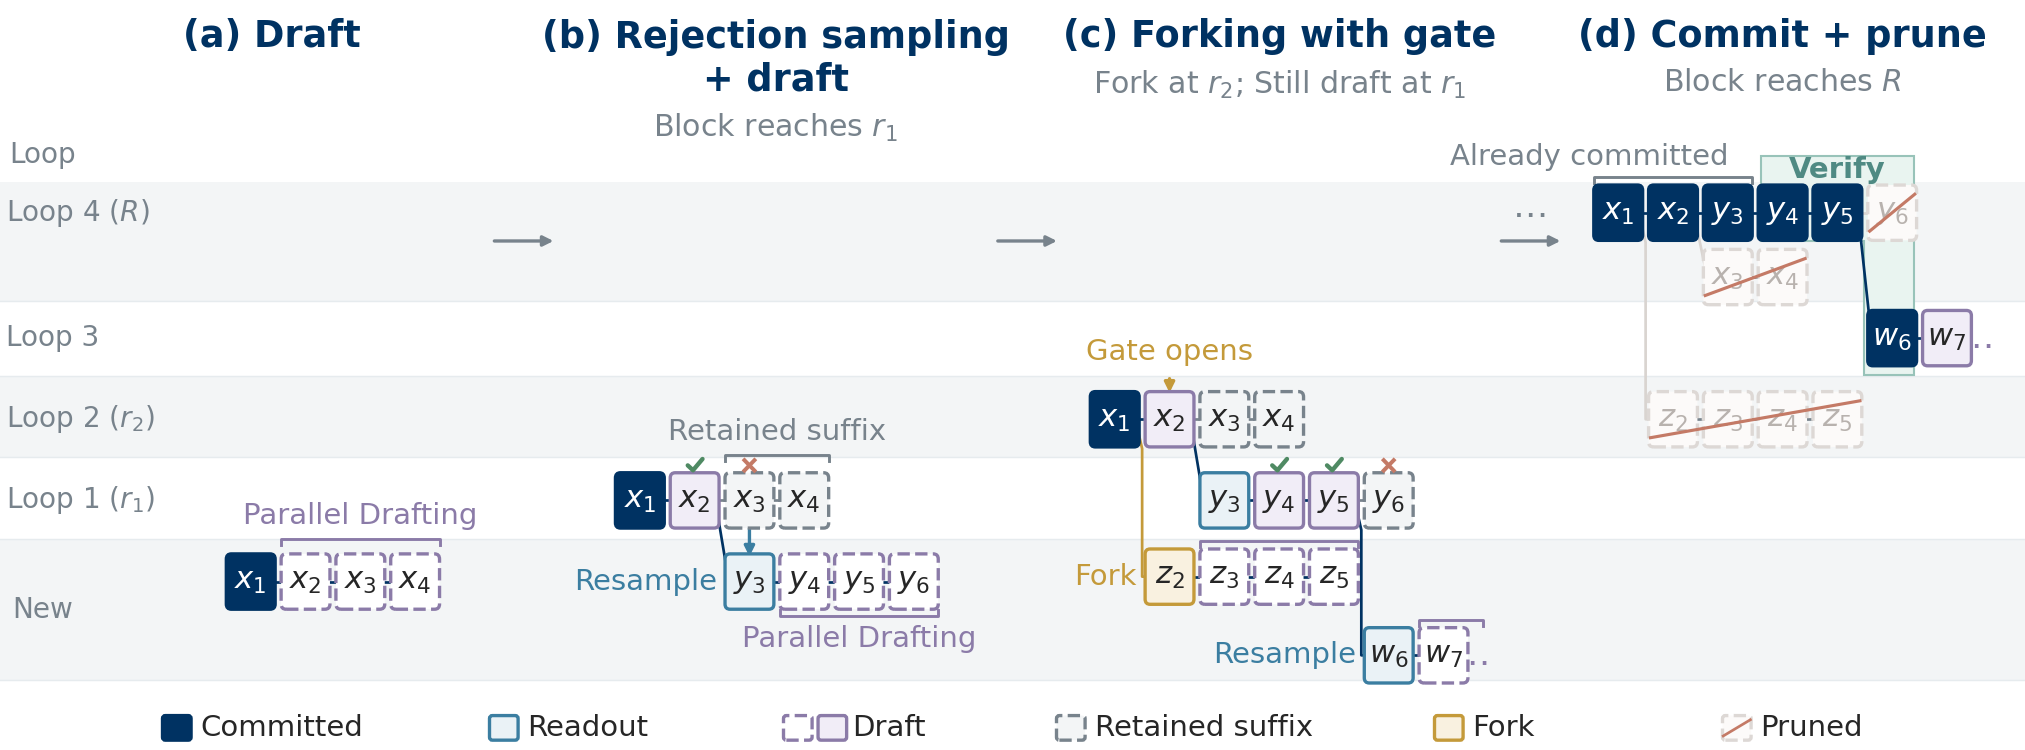
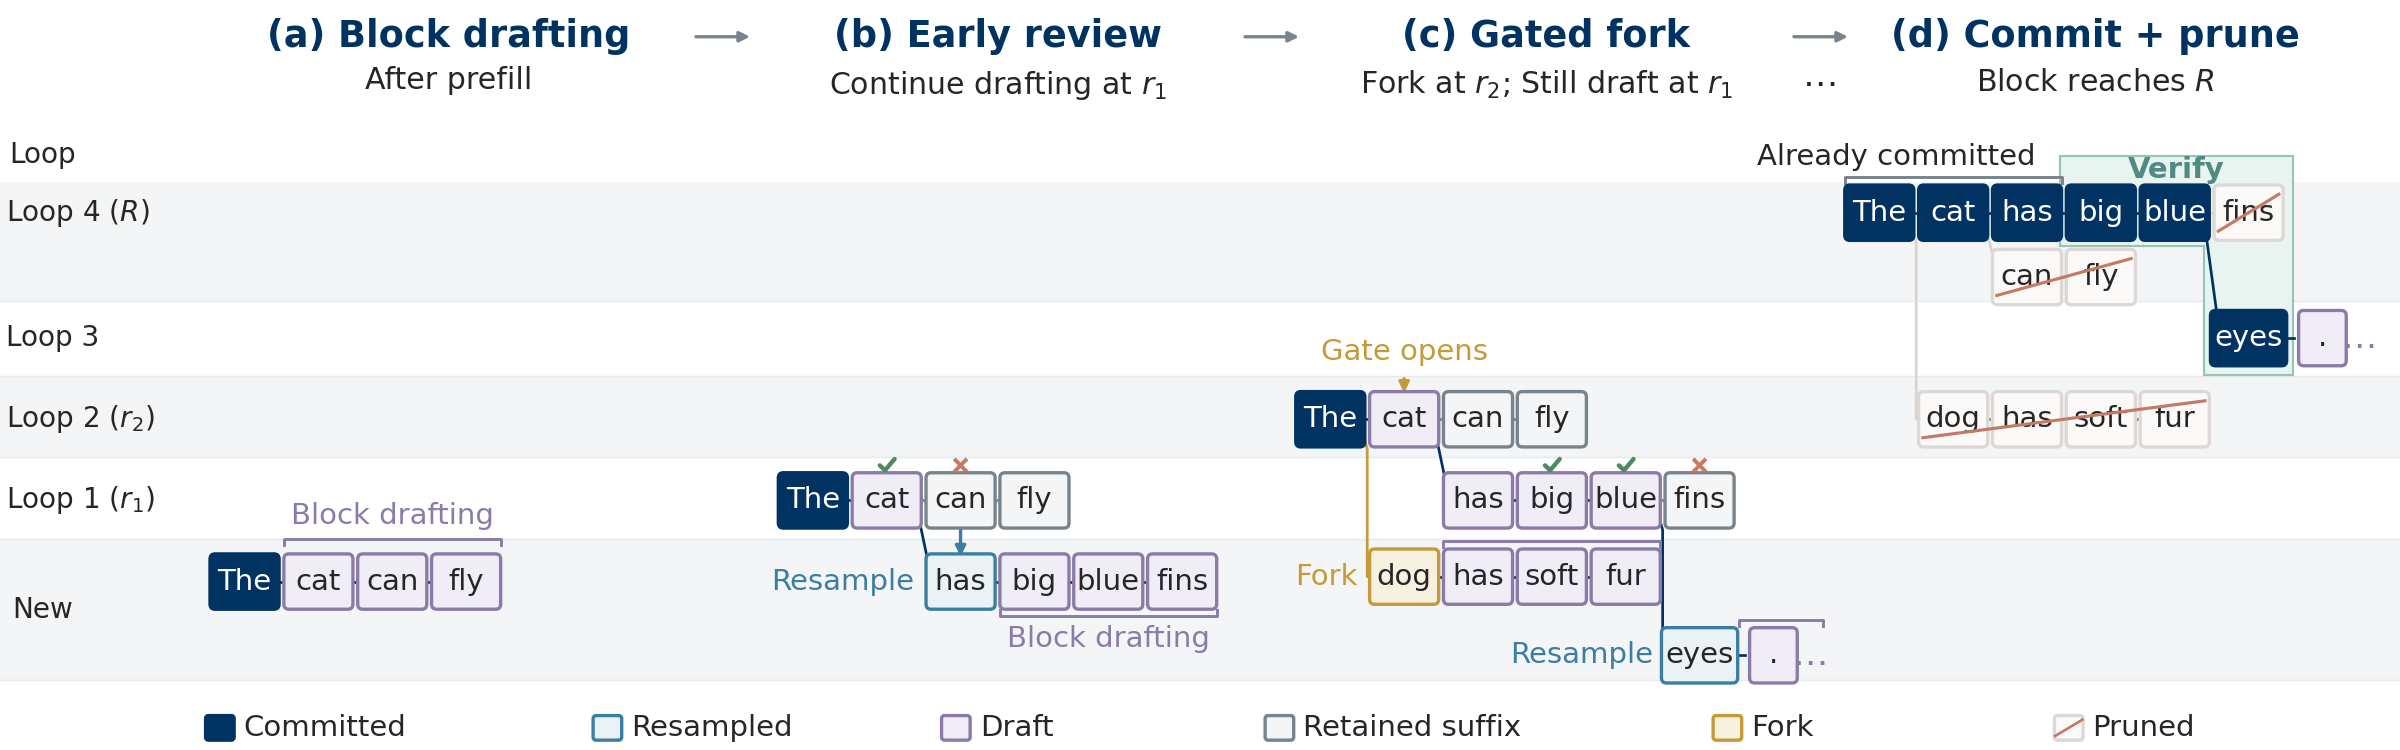
Update the figures and docs

diff --git a/scripts/benchmark.py b/scripts/benchmark.py
@@ -7,9 +7,10 @@ skipped, and --out must hold only results of the same run (model, revision,
 drafter, method, sampling, 2DSD settings, KV policy and prompts file). Then
 prints decode throughput per benchmark, as in the paper (App. D.2): tokens
 after the first one (which prefill produces) over the decode time, excluding
-prefill and including drafting, scheduling, verification and CUDA graph capture.
-"repetition-filtered" excludes capped responses whose final 2048 tokens have
-fewer than half distinct 16-grams.
+prefill and including drafting and verification. AIME24 and AIME25 are
+reported together as aime24/25, as in the paper's tables. "repetition-filtered"
+excludes capped responses whose final 2048 tokens have fewer than half distinct
+16-grams.
 
 Examples (the paper's 2DSD run and its native AR reference):
   python scripts/benchmark.py --model ouro-1.4b-thinking \\
@@ -265,13 +266,16 @@ def capped(row: dict) -> bool:
     return not row["stopped_by_eos"] and len(row["output_ids"]) >= row["max_new"]
 
 
+TABLE_BENCHMARK = {"aime24": "aime24/25", "aime25": "aime24/25"}  # one column in the paper's tables
+
+
 def summarize(paths: list[Path]) -> None:
     print(f"{'run':40s} {'benchmark':12s} {'n':>5s} {'tok/s':>9s} {'tok/s (rep.-filtered)':>22s}")
     for path in paths:
         rows = read_jsonl(path)
         groups = collections.defaultdict(list)
         for row in rows:
-            groups[row["benchmark"]].append(row)
+            groups[TABLE_BENCHMARK.get(row["benchmark"], row["benchmark"])].append(row)
             groups["all"].append(row)
         for name, items in sorted(groups.items(), key=lambda kv: (kv[0] == "all", kv[0])):
             def rate(selected):

diff --git a/tests/test_benchmark_script.py b/tests/test_benchmark_script.py
@@ -53,6 +53,23 @@ class Helpers(unittest.TestCase):
         line = [l for l in out.getvalue().splitlines() if " all " in l][0]
         self.assertIn("10.0", line)  # (10 + 30) tokens / (1 + 3) s
 
+    def test_summary_reports_aime24_and_aime25_together(self):
+        rows = [{"id": "a", "benchmark": "aime24", "output_ids": [0] * 11, "decode_seconds": 1.0, "max_new": 99,
+                 "stopped_by_eos": True},
+                {"id": "b", "benchmark": "aime25", "output_ids": [0] * 31, "decode_seconds": 1.0, "max_new": 99,
+                 "stopped_by_eos": True}]
+        with tempfile.TemporaryDirectory() as directory:
+            path = Path(directory) / "run.jsonl"
+            path.write_text("".join(json.dumps(r) + "\n" for r in rows))
+            out = io.StringIO()
+            with redirect_stdout(out):
+                benchmark.summarize([path])
+        lines = out.getvalue().splitlines()
+        self.assertFalse(any(" aime24 " in l or " aime25 " in l for l in lines))
+        line = [l for l in lines if " aime24/25 " in l][0]
+        self.assertIn("    2 ", line)
+        self.assertIn("20.0", line)  # (10 + 30) tokens / (1 + 1) s
+
     def test_prepare_append_drops_a_torn_tail_and_ends_the_last_record(self):
         with tempfile.TemporaryDirectory() as directory:
             path = Path(directory) / "run.jsonl"

diff --git a/vllm-fork/vllm/v1/spec_decode/twodsd.py b/vllm-fork/vllm/v1/spec_decode/twodsd.py
@@ -15,7 +15,7 @@ Example::
     [result] = engine.generate([prompt_ids], max_total_tokens=8192)
     print(result["output_ids"], result["decode_seconds"])
 
-Method presets (paper Sec. 5.1): ``2dsd`` is Stage 2b with (r1, r2) = (1, 2)
+Method presets (paper Sec. 5.1; Nanbeige: App. E.1): ``2dsd`` is Stage 2b with (r1, r2) = (1, 2)
 and block size 16 on R=4 targets (Ouro, Dory), and Stage 1 with r1 = 1 on R=2
 targets (Nanbeige).
 
@@ -27,7 +27,7 @@ and the 2DSD runner's compiled nGPT blocks); Ouro and
 Nanbeige run CUDA graphs without torch.compile (the settings of the paper's
 measurements).
 ``stage``, ``block_size``, ``d1`` and ``d2`` select the ablation variants
-(Stage 1: early review only; Stage 2a: plus promotion; Stage 2b: plus forking).
+(Stage 1: early only; Stage 2a: plus deeper promotion; Stage 2b: plus deeper forking).
 With ``block_size=1`` no drafter runs (depth-axis speculation only).
 """
 

diff --git a/training/drafter/traces.py b/training/drafter/traces.py
@@ -7,7 +7,7 @@ online at the loop onset (loop_onset below) and saved up to that onset with fini
 so no budget is spent on the repetition.
 
 --variant w64 is the shared-KV checkpoint served with its trained read rule (native single-pass
-prompt, last-loop KV outside the W-token query band); the vLLM fork applies it because the
+prompt, last-loop KV outside the W-token local window); the vLLM fork applies it because the
 checkpoint's config.json declares loopedtf_kv_policy / loopedtf_kv_window (training.kd.fix_config
 adds them to older exports; --kv-policy forces them through hf_overrides for a checkpoint that
 lacks them). --variant original is the per-loop-KV original model. Both drafters of a model in the

diff --git a/training/drafter/blocks.py b/training/drafter/blocks.py
@@ -1,7 +1,7 @@
 """Depth-conditioned DFlash blocks: sampling, labels and chain mask, loop-context queries and mask.
 
 Notation for one block (code name -> paper name):
-  a      ("anchor" in code; the paper's parent) the last position whose target feature is injected
+  a      ("anchor" in code) the last position whose target feature is injected, just before the paper's anchor
   d      its depth in 1..R; d = R means fully verified, the original DFlash setting
   L_if   in-flight positions a-L_if .. a-1 before it: drafted but not yet verified
   v      last verified position (a for d = R, else a - L_if - 1); positions <= v use loop-R features

diff --git a/README.md b/README.md
@@ -27,7 +27,7 @@ Looped language models (LMs) increase effective depth without increasing paramet
 
 <img src="img/main_algorithm.png" alt="The four stages of 2DSD" width="100%">
 
-*Four stages of 2DSD (R = 4, r<sub>1</sub> = 1, r<sub>2</sub> = 2, k = 4): (a) after prefill, the drafter proposes a block of tokens in parallel; (b) at loop r<sub>1</sub>, the block is reviewed by rejection sampling: the token sampled at the first rejection starts a new block, and the rejected suffix is kept as a fallback; (c) at loop r<sub>2</sub>, a gate can fork a new continuation while another block is redrafted at r<sub>1</sub>; (d) the last loop verifies the candidates, commits one continuation and prunes the rest.*
+*Four stages of 2DSD (illustrative R = 4, r<sub>1</sub> = 1, r<sub>2</sub> = 2, k = 4): (a) block drafting after prefill; (b) at loop r<sub>1</sub>, drafts are reviewed in order, resampling at the first rejection to continue drafting; (c) disagreement between the loop-r<sub>2</sub> argmax and the early-loop candidate opens the gate to fork an alternative continuation, while r<sub>1</sub> review and drafting continue; (d) candidates are verified using the preceding token's last-loop distribution, committing accepted tokens and pruning alternative branches.*
 
 ## ⚙ Installation
 
@@ -92,15 +92,14 @@ Nanbeige (R = 2).
 #    OlympiadBench at 32K. GPQA is gated: accept its terms on Hugging Face and log in before building Hard.
 python scripts/build_prompts.py --model ouro-2.6b-thinking --suite core --out prompts/ouro-2.6b
 
-# 2. 2DSD and AR, with last-loop KV sharing and with per-loop KV (--target original), one GPU each (resumable).
+# 2. 2DSD and the native AR reference (--target original), one GPU each (resumable).
 python scripts/benchmark.py --model ouro-2.6b-thinking \
     --prompts prompts/ouro-2.6b/core.prompts.jsonl --out runs/ouro-2.6b-core-2dsd.jsonl
-python scripts/benchmark.py --method ar --model ouro-2.6b-thinking \
-    --prompts prompts/ouro-2.6b/core.prompts.jsonl --out runs/ouro-2.6b-core-ar-sharing.jsonl
-python scripts/benchmark.py --model ouro-2.6b-thinking --target original \
-    --prompts prompts/ouro-2.6b/core.prompts.jsonl --out runs/ouro-2.6b-core-2dsd-no-sharing.jsonl
 python scripts/benchmark.py --method ar --model ouro-2.6b-thinking --target original \
     --prompts prompts/ouro-2.6b/core.prompts.jsonl --out runs/ouro-2.6b-core-ar-native.jsonl
+#    Sharing ablation (Table 4): 2DSD without KV sharing, on the base model with per-loop KV.
+python scripts/benchmark.py --model ouro-2.6b-thinking --target original \
+    --prompts prompts/ouro-2.6b/core.prompts.jsonl --out runs/ouro-2.6b-core-2dsd-no-sharing.jsonl
 
 # 3. Decode throughput per benchmark, over all responses and repetition-filtered.
 python scripts/benchmark.py --summarize runs/ouro-2.6b-core-*.jsonl
@@ -110,13 +109,11 @@ The same commands run every model. Notes:
 
 - Sampling uses `--temperature 0.6 --top-p 0.95`.
 - Decode throughput counts the tokens after the first one over the decode time, excluding prefill and including
-  drafting, scheduling, verification and CUDA graph capture.
+  drafting and verification.
 - The paper's main tables exclude capped responses whose final 2048 tokens have fewer than half distinct 16-grams
   (the repetition-filtered column).
-- Every committed token is verified against the final loop of the run's own target, so decoding is lossless with
-  respect to that run. Different kernels (vLLM's AR path versus the 2DSD runner, another GPU, or another Dory
-  compile cache) round a few BF16 values differently, which can flip a near-tied next token, so greedy 2DSD and
-  AR outputs usually diverge within the first few hundred tokens of a long response.
+- Every committed token is verified against the final loop, so decoding preserves the served model's original
+  distribution.
 
 ## 🏋 Training
 

diff --git a/training/README.md b/training/README.md
@@ -3,7 +3,7 @@
 2DSD trains two components:
 
 - **Shared-KV adaptation** (`training.kd`, Appendix C): adapt Ouro and Nanbeige to last-loop KV sharing
-  with a query window of W = 64 through distillation from the original model.
+  with a local window of W = 64 through self-distillation from the original model.
 - **Depth-conditioned drafters** (`training.drafter`, Appendix D.4): train and export DFlash drafters
   for the shared-KV and original targets. Dory uses one drafter for both targets and needs no KD.
 
